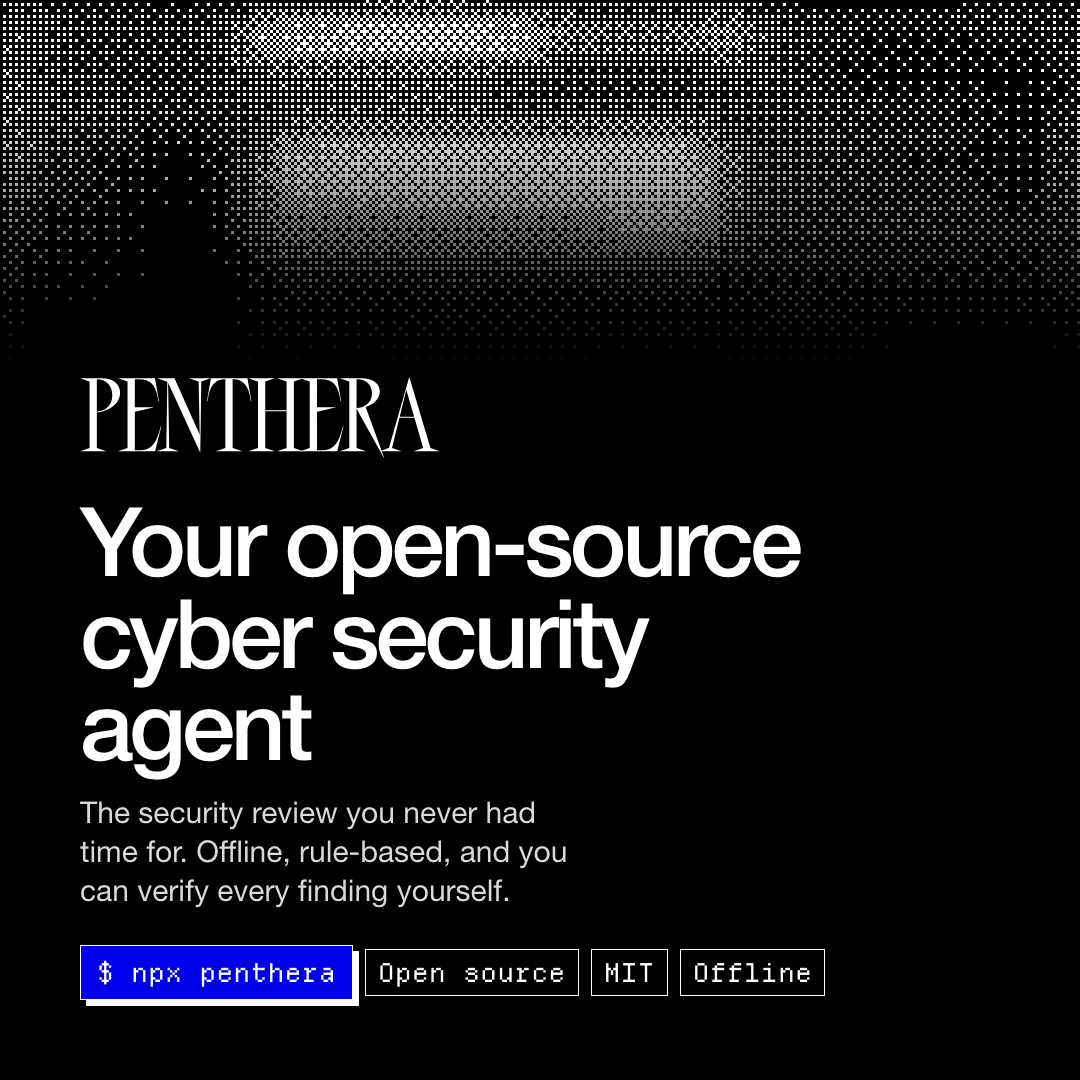
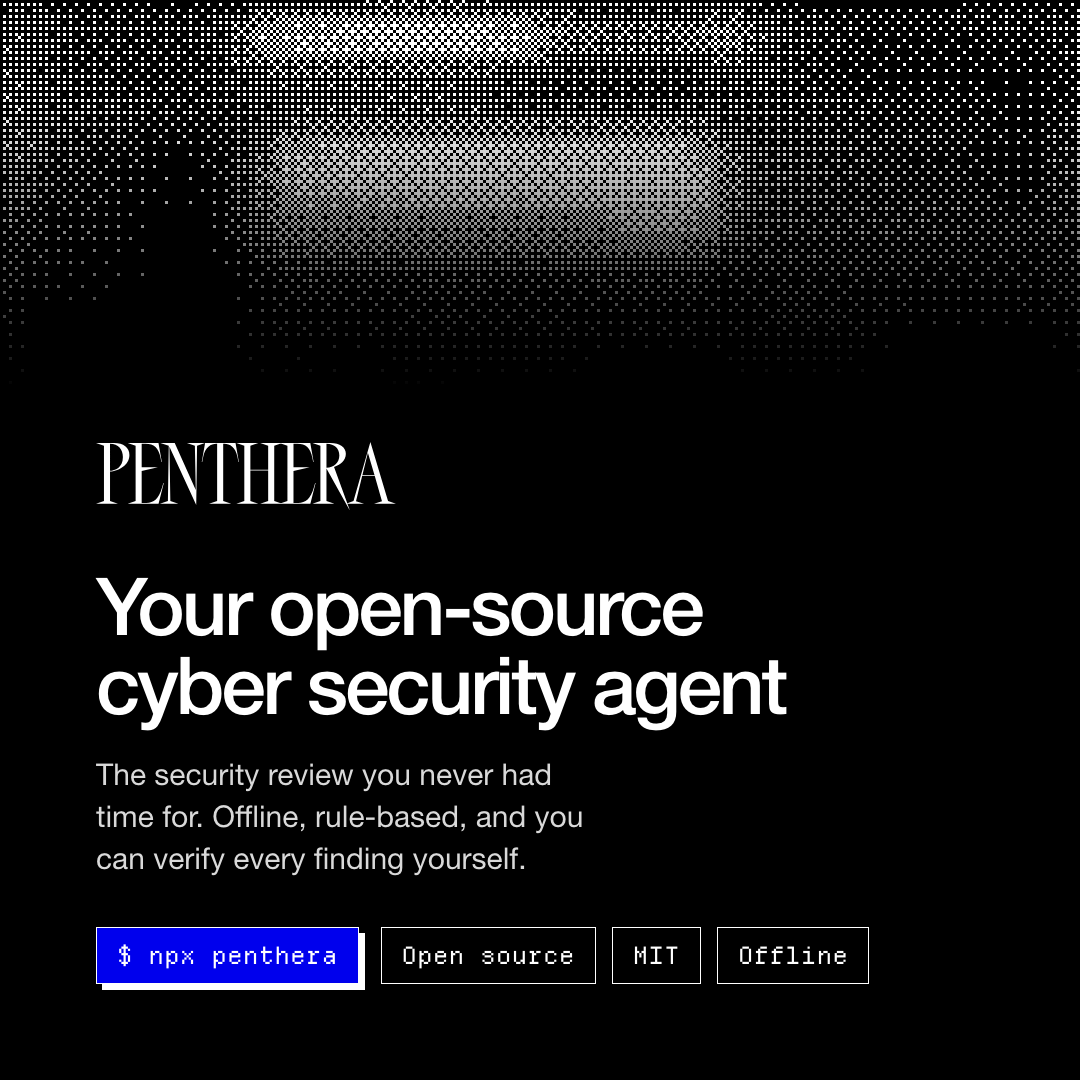
feat(site): an FAQ, roomier share images, and the link-preview title and description
FAQ: ten questions in native <details> (no script), in the docs/voice.md
tone: what Penthera is and why, free and open source, what leaves your
machine (the CLI's --offline, and the site's cookieless Vercel counters),
accuracy, limits, how it differs from paid tools, safe use, AI in its
making, how it is researched, and how to help or challenge it. Every fact
follows README, MANIFESTO, METHODOLOGY, genai.md and the research plan;
the numbers are filled in at build time from bench/RESULTS.md (precision,
recall, Wilson intervals, TP/FP/FN, non-loopback requests),
scripts/docs-numbers.mjs (rule counts, now importable as COUNTS) and
package.json (runtime dependencies), so they cannot drift. No JSON-LD:
it would need an inline script, which the CSP forbids.

Share images: 80 px margins on the 1200 x 630 card with the logotype
pinned top-left and the message bottom-left, the field owning the right;
the title balanced on two lines, more room between title, subline and
chips, roomier chips. The square follows the same rhythm under its field.

Link preview: og:title and twitter:title are "Penthera: your open-source
security agent"; the description (also meta description, 139 characters)
says what it checks and why to trust it. Tests pin the title, cap the
descriptions at 155 characters and check the FAQ's numbers against the
repo. audit.js passes at 375 px and desktop in both themes.
[…]

Changed region(s): [[0.0611, 0.3361, 0.7944, 0.9472]]

diff --git a/site/index.html b/site/index.html
@@ -4,13 +4,13 @@
   <meta charset="utf-8">
   <meta name="viewport" content="width=device-width, initial-scale=1">
   <title>Penthera</title>
-  <meta name="description" content="The security review you never had time for. Offline, rule-based, and you can verify every finding yourself.">
+  <meta name="description" content="Offline security checks for your app, its dependencies and your AI coding tools. Open source, rule-based, and you can verify every finding.">
   <meta name="color-scheme" content="dark light">
   <meta name="theme-color" content="#000000">
   <link rel="canonical" href="{{SITE_URL}}/">
   <meta property="og:site_name" content="Penthera">
-  <meta property="og:title" content="Penthera: your open-source cyber security agent">
-  <meta property="og:description" content="The security review you never had time for. Offline, rule-based, and you can verify every finding yourself.">
+  <meta property="og:title" content="Penthera: your open-source security agent">
+  <meta property="og:description" content="Offline security checks for your app, its dependencies and your AI coding tools. Open source, rule-based, and you can verify every finding.">
   <meta property="og:type" content="website">
   <meta property="og:url" content="{{SITE_URL}}/">
   <meta property="og:image" content="{{SITE_URL}}/media/social/og.png">
@@ -18,8 +18,8 @@
   <meta property="og:image:height" content="630">
   <meta property="og:image:alt" content="Penthera: your open-source cyber security agent. The security review you never had time for. npx penthera.">
   <meta name="twitter:card" content="summary_large_image">
-  <meta name="twitter:title" content="Penthera: your open-source cyber security agent">
-  <meta name="twitter:description" content="The security review you never had time for. Offline, rule-based, and you can verify every finding yourself.">
+  <meta name="twitter:title" content="Penthera: your open-source security agent">
+  <meta name="twitter:description" content="Offline security checks for your app, its dependencies and your AI coding tools. Open source, rule-based, and you can verify every finding.">
   <meta name="twitter:image" content="{{SITE_URL}}/media/social/og.png">
   <meta name="twitter:image:alt" content="Penthera: your open-source cyber security agent. The security review you never had time for.">
   <link rel="icon" href="/favicon.svg" type="image/svg+xml">
@@ -267,7 +267,80 @@
       <p class="eu-note">Penthera does not make you compliant and does not certify anything. It is not affiliated with or endorsed by the European Union; the stars mark the subject.</p>
     </section>
 
-    <!-- 7 · Vision -->
+    <!-- 7 · Questions -->
+    <section class="faq" id="faq" aria-labelledby="faq-title">
+      <h2 id="faq-title">Questions</h2>
+      <div class="faq-list">
+        <details>
+          <summary>What is Penthera, and why does it exist?</summary>
+          <div class="faq-a">
+            <p>Penthera is a security agent you run on your own machine, and an open research project that measures how well it works. We want a safer internet for everyone who builds for their business or turns an idea into a product.</p>
+            <p>AI coding tools make building faster, and they bring new risks with them: leaked keys, dependencies that do more than they say, agent setups that run whatever they are told. Paid security tools are not something everyone can afford. Penthera is free and open, and its checks rest on published research, ongoing experiments and a public benchmark.</p>
+            <p>It is also built for ethical use of AI. Readable, deterministic rules decide; models may only propose a fix, and a re-scan and your tests decide whether it holds. You can read every check, so it cannot be quietly turned against you.</p>
+          </div>
+        </details>
+        <details>
+          <summary>Is it free and open source?</summary>
+          <div class="faq-a">
+            <p>Yes. Penthera is MIT-licensed and complete on one machine, with no account and no paid tier for any feature. If something paid comes later, such as a team server, it is added on top and never removes a local feature. That is decision 6 in the <a href="https://github.com/danoszz/penthera/blob/main/docs/MANIFESTO.md">manifesto</a>.</p>
+          </div>
+        </details>
+        <details>
+          <summary>Does it work offline, and what leaves my machine?</summary>
+          <div class="faq-a">
+            <p>The CLI has no telemetry and no account. With <code>--offline</code> it contacts only the target you named, and every report lists the hosts it contacted (<a href="https://github.com/danoszz/penthera/blob/main/docs/privacy.md">network use</a>).</p>
+            <p>On this site, the check runs in your tab and never sends what you drop or paste. The page counts anonymous page views and load times with Vercel's cookieless counters on penthera.org. Its Content-Security-Policy allows those two counters and nothing else, so that is all it can send.</p>
+          </div>
+        </details>
+        <details>
+          <summary>How accurate is it?</summary>
+          <div class="faq-a">
+            <p>On the public benchmark: precision {{BENCH_P}} (95% CI {{BENCH_P_CI}}) and recall {{BENCH_R}} (95% CI {{BENCH_R_CI}}), from {{BENCH_TP}} true positives, {{BENCH_FP}} false positives and {{BENCH_FN}} misses in labs we built ourselves. During the benchmark it made {{BENCH_EGRESS}} requests to anything other than loopback.</p>
+            <p>The sample is small and the labs are ours, so these numbers catch regressions; they do not measure real-world accuracy. Measuring that on other people's code is experiment E1, <a href="https://github.com/danoszz/penthera/blob/main/docs/research/prereg/E1-real-world-accuracy.md">pre-registered</a> before any data is collected.</p>
+            <p>Every rule is readable: {{N_URL}} URL scan templates, {{N_SECRETS}} secret and AI-key patterns, {{N_CAPS}} dependency capabilities, {{N_AGENTS}} AI-tooling rules and {{N_RECIPES}} fix recipes, on {{DEPS_N}} ({{DEPS_LIST}}). <a href="https://github.com/danoszz/penthera/blob/main/bench/RESULTS.md">Benchmark results</a></p>
+          </div>
+        </details>
+        <details>
+          <summary>What can't it do?</summary>
+          <div class="faq-a">
+            <p>It finds known classes of problems, not novel ones. It does not find business-logic flaws, complex authorization bugs or zero-days, and it does not replace a human penetration test or incident response. The full list is in the methodology's <a href="https://github.com/danoszz/penthera/blob/main/docs/METHODOLOGY.md#known-limitations">known limitations</a>.</p>
+          </div>
+        </details>
+        <details>
+          <summary>How is it different from paid tools?</summary>
+          <div class="faq-a">
+            <p>Penthera runs on your machine, offline, and decides with readable rules that show their evidence at <code>file:line</code>. Many commercial tools work in the cloud, at registry or organization scale, and some add AI review; in places they go further than Penthera. Each <a href="https://github.com/danoszz/penthera/tree/main/docs/compare">comparison page</a> says where the other tool is stronger and how to run the two together.</p>
+          </div>
+        </details>
+        <details>
+          <summary>Is it safe to point at any site?</summary>
+          <div class="faq-a">
+            <p>Point it only at sites you own or are authorized to test. The default scan sends only requests a browser would send. Payload testing (<code>--deep</code>, <code>--fuzz</code>, <code>--all</code>) is opt-in and asks for confirmation, and the guided start scans your running app only after you confirm the app is yours.</p>
+          </div>
+        </details>
+        <details>
+          <summary>Is Penthera built with AI?</summary>
+          <div class="faq-a">
+            <p>Yes, and we say how. Of the commits up to v1.7.0, 91% were written with Claude through Claude Code, and each names the model in its commit message. The maintainer sets the direction, makes the design and security decisions, and reviews what is merged. Generated code passes the same gates as any other change: the test suite, CodeQL, OpenSSF Scorecard and an internal audit before every release. <a href="https://github.com/danoszz/penthera/blob/main/docs/genai.md">How Penthera is built</a></p>
+          </div>
+        </details>
+        <details>
+          <summary>How is it researched and tested?</summary>
+          <div class="faq-a">
+            <p>Each feature goes method, evidence, tool. The <a href="https://github.com/danoszz/penthera/blob/main/docs/METHODOLOGY.md">methodology</a> states the threat model and what each check can and cannot see. A benchmark runs on every release, and the release fails if precision or recall drops by more than 0.02. Experiments that decide what ships next are pre-registered before any data is collected, and the results are published either way.</p>
+            <p>Detection rules ship inside reviewed releases as signed, versioned rule packs; nothing is downloaded while Penthera runs. The <a href="https://github.com/danoszz/penthera/blob/main/docs/vision-2.0.md">research plan</a> lists the experiments.</p>
+          </div>
+        </details>
+        <details>
+          <summary>How can I help or challenge it?</summary>
+          <div class="faq-a">
+            <p>If you think a decision is wrong, open a <a href="https://github.com/danoszz/penthera/discussions">discussion</a> labeled "challenge": say which decision, what you would do instead and what evidence would settle it. Report bugs and false positives as <a href="https://github.com/danoszz/penthera/issues">issues</a>, read <a href="https://github.com/danoszz/penthera/blob/main/CONTRIBUTING.md">CONTRIBUTING.md</a> to contribute, or <a href="https://github.com/sponsors/danoszz">sponsor its maintenance</a>.</p>
+          </div>
+        </details>
+      </div>
+    </section>
+
+    <!-- 8 · Vision -->
     <section class="vision band band-invert" aria-labelledby="vision-title">
       <h2 id="vision-title">Open R&amp;D</h2>
       <p class="vision-text">Penthera is a research project with a tool you can use today. Each check is measured in public, pre-registered experiments, and the results are published, good or bad. What holds up ships in the next release. What does not is dropped.</p>

diff --git a/tests/site.test.js b/tests/site.test.js
@@ -68,6 +68,12 @@ describe("site build", () => {
     for (const tag of ['property="og:image"', 'name="twitter:card" content="summary_large_image"', 'property="og:image:width" content="1200"']) {
       expect(html, tag).toContain(tag);
     }
+    expect(html).toContain('property="og:title" content="Penthera: your open-source security agent"');
+    expect(html).toContain('name="twitter:title" content="Penthera: your open-source security agent"');
+    for (const tag of ["og:description", "twitter:description"]) {
+      const d = html.match(new RegExp(`(?:property|name)="${tag}" content="([^"]+)"`))[1];
+      expect(d.length, tag).toBeLessThanOrEqual(155);
+    }
     const img = html.match(/property="og:image" content="([^"]+)"/)[1];
     expect(img).toMatch(/\/media\/social\/og\.png$/);
     for (const f of ["media/social/og.png", "media/social/square.png"]) expect(existsSync(join(out, f)), f).toBe(true);
@@ -88,6 +94,22 @@ describe("site build", () => {
     for (const api of ["fetch(", "new XMLHttpRequest", "new WebSocket", "sendBeacon(", "new EventSource", "importScripts("]) {
       expect(js.includes(api), api).toBe(false);
     }
+  });
+});
+
+describe("site FAQ", () => {
+  it("is native <details> with a question in each summary, and its numbers come from the repo", () => {
+    const html = readFileSync(join(out, "index.html"), "utf8");
+    const faq = html.slice(html.indexOf('id="faq"'), html.indexOf("<!-- 8 · Vision -->"));
+    const items = faq.match(/<details>\s*<summary>[^<]+\?<\/summary>/g) || [];
+    expect(items.length).toBeGreaterThanOrEqual(10);
+    // Benchmark figures as bench/RESULTS.md and scripts/docs-numbers.mjs give them.
+    const total = readFileSync(join(ROOT, "bench", "RESULTS.md"), "utf8").match(/\| \*\*Total\*\* \|[^|]*\| \*\*(\d+)\*\* \| \*\*(\d+)\*\* \| \*\*(\d+)\*\* \|/);
+    const [tp, fp, fn] = total.slice(1).map(Number);
+    expect(faq).toContain(`precision ${(tp / (tp + fp)).toFixed(2)} (95% CI`);
+    expect(faq).toContain(`from ${tp} true positives, ${fp} false positives and ${fn} misses`);
+    expect(faq).toMatch(/one runtime dependency \(yaml\)|\d+ runtime dependencies/);
+    expect(faq).not.toMatch(/\{\{\w+\}\}/);
   });
 });
 

diff --git a/site/styles.css b/site/styles.css
@@ -613,7 +613,29 @@ textarea:focus-visible, select:focus-visible { outline-offset: 0; }
 .eu-list a { display: inline-block; margin-top: 8px; font-family: var(--px); font-size: 13px; }
 .eu-note { margin-top: 24px; max-width: 70ch; font-family: var(--px); font-size: 12px; color: var(--text-3); }
 
-/* 7 · Vision: the closing assertion. */
+/* 7 · Questions: native <details>, no script. A + turns into a − when open. */
+.faq-list { margin-top: 40px; border-top: 1px solid var(--frame); max-width: 900px; }
+.faq-list details { border-bottom: 1px solid var(--hair); }
+.faq-list summary {
+  position: relative; display: block; cursor: pointer; list-style: none;
+  padding: 20px 48px 20px 0; min-height: var(--target);
+  font-family: var(--display); font-size: clamp(19px, 2vw, 24px); font-weight: 500; letter-spacing: -0.015em; line-height: 1.25;
+  color: var(--text-1);
+}
+.faq-list summary::-webkit-details-marker { display: none; }
+.faq-list summary::after {
+  content: "+"; position: absolute; right: 4px; top: 50%; transform: translateY(-50%);
+  width: 28px; height: 28px; display: grid; place-items: center;
+  font-family: var(--px); font-size: 18px; border: 1px solid var(--frame);
+}
+.faq-list details[open] summary::after { content: "\2212"; background: var(--frame); color: var(--ground); }
+.faq-list summary:hover { color: var(--accent-ink); }
+.faq-a { display: grid; gap: 14px; padding: 0 48px 28px 0; max-width: 68ch; }
+@media (max-width: 480px) { .faq-a { padding-right: 0; } }
+.faq-a p { color: var(--text-2); }
+.faq-a a { overflow-wrap: anywhere; }
+
+/* 8 · Vision: the closing assertion. */
 .vision-text {
   margin-top: 32px; max-width: 30ch;
   font-family: var(--display); font-size: clamp(24px, 3.4vw, 44px);
